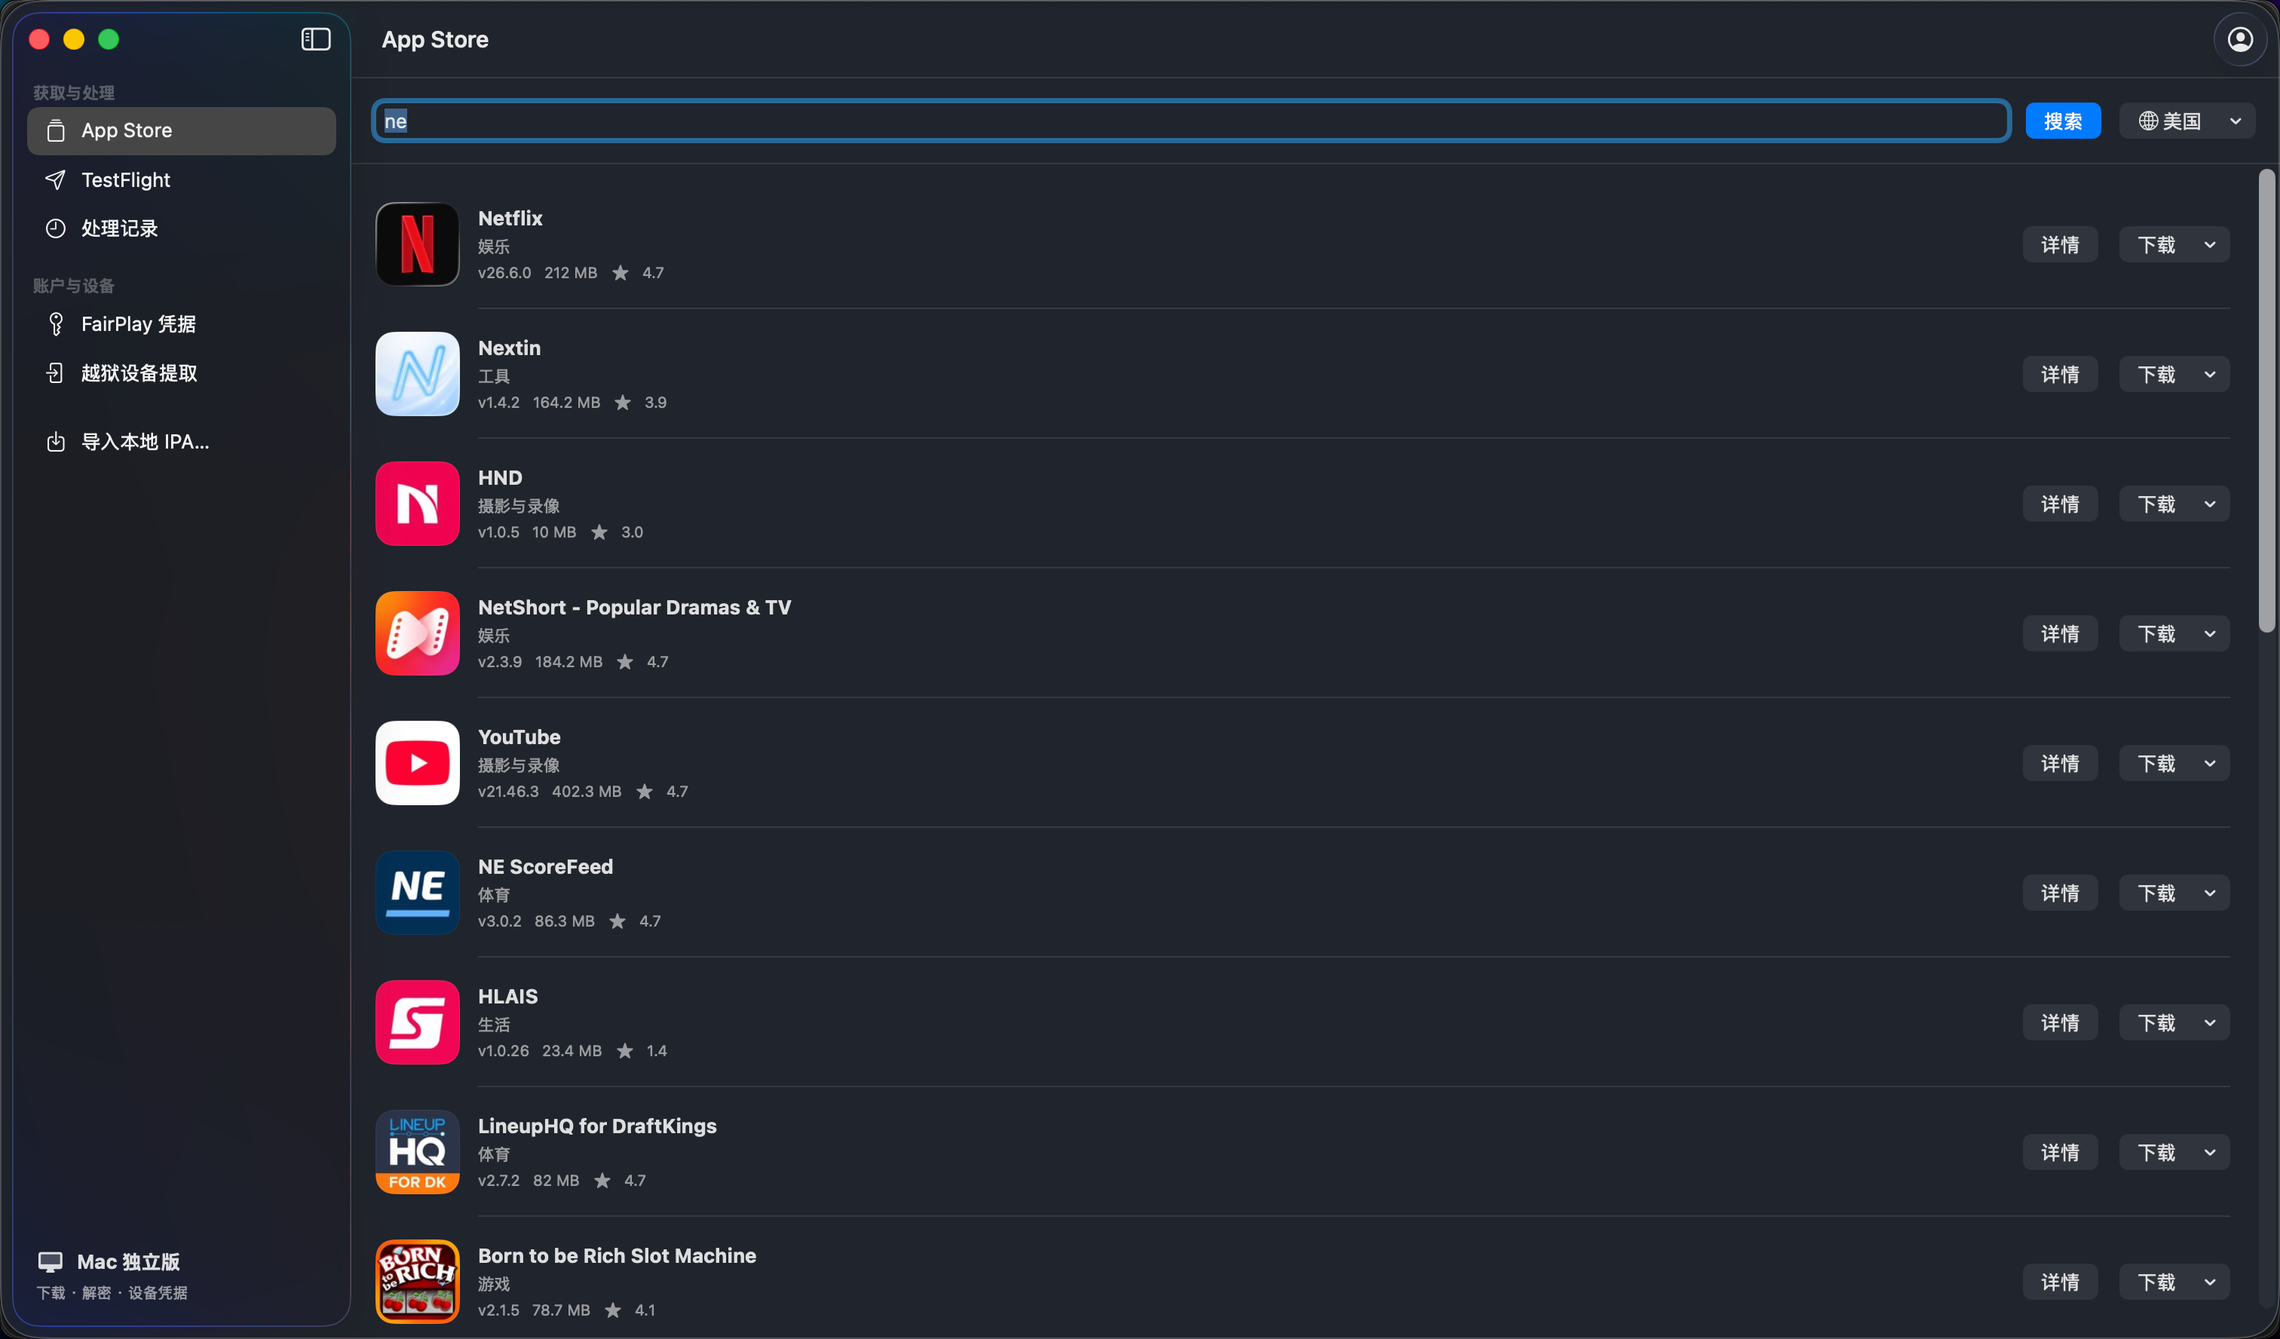
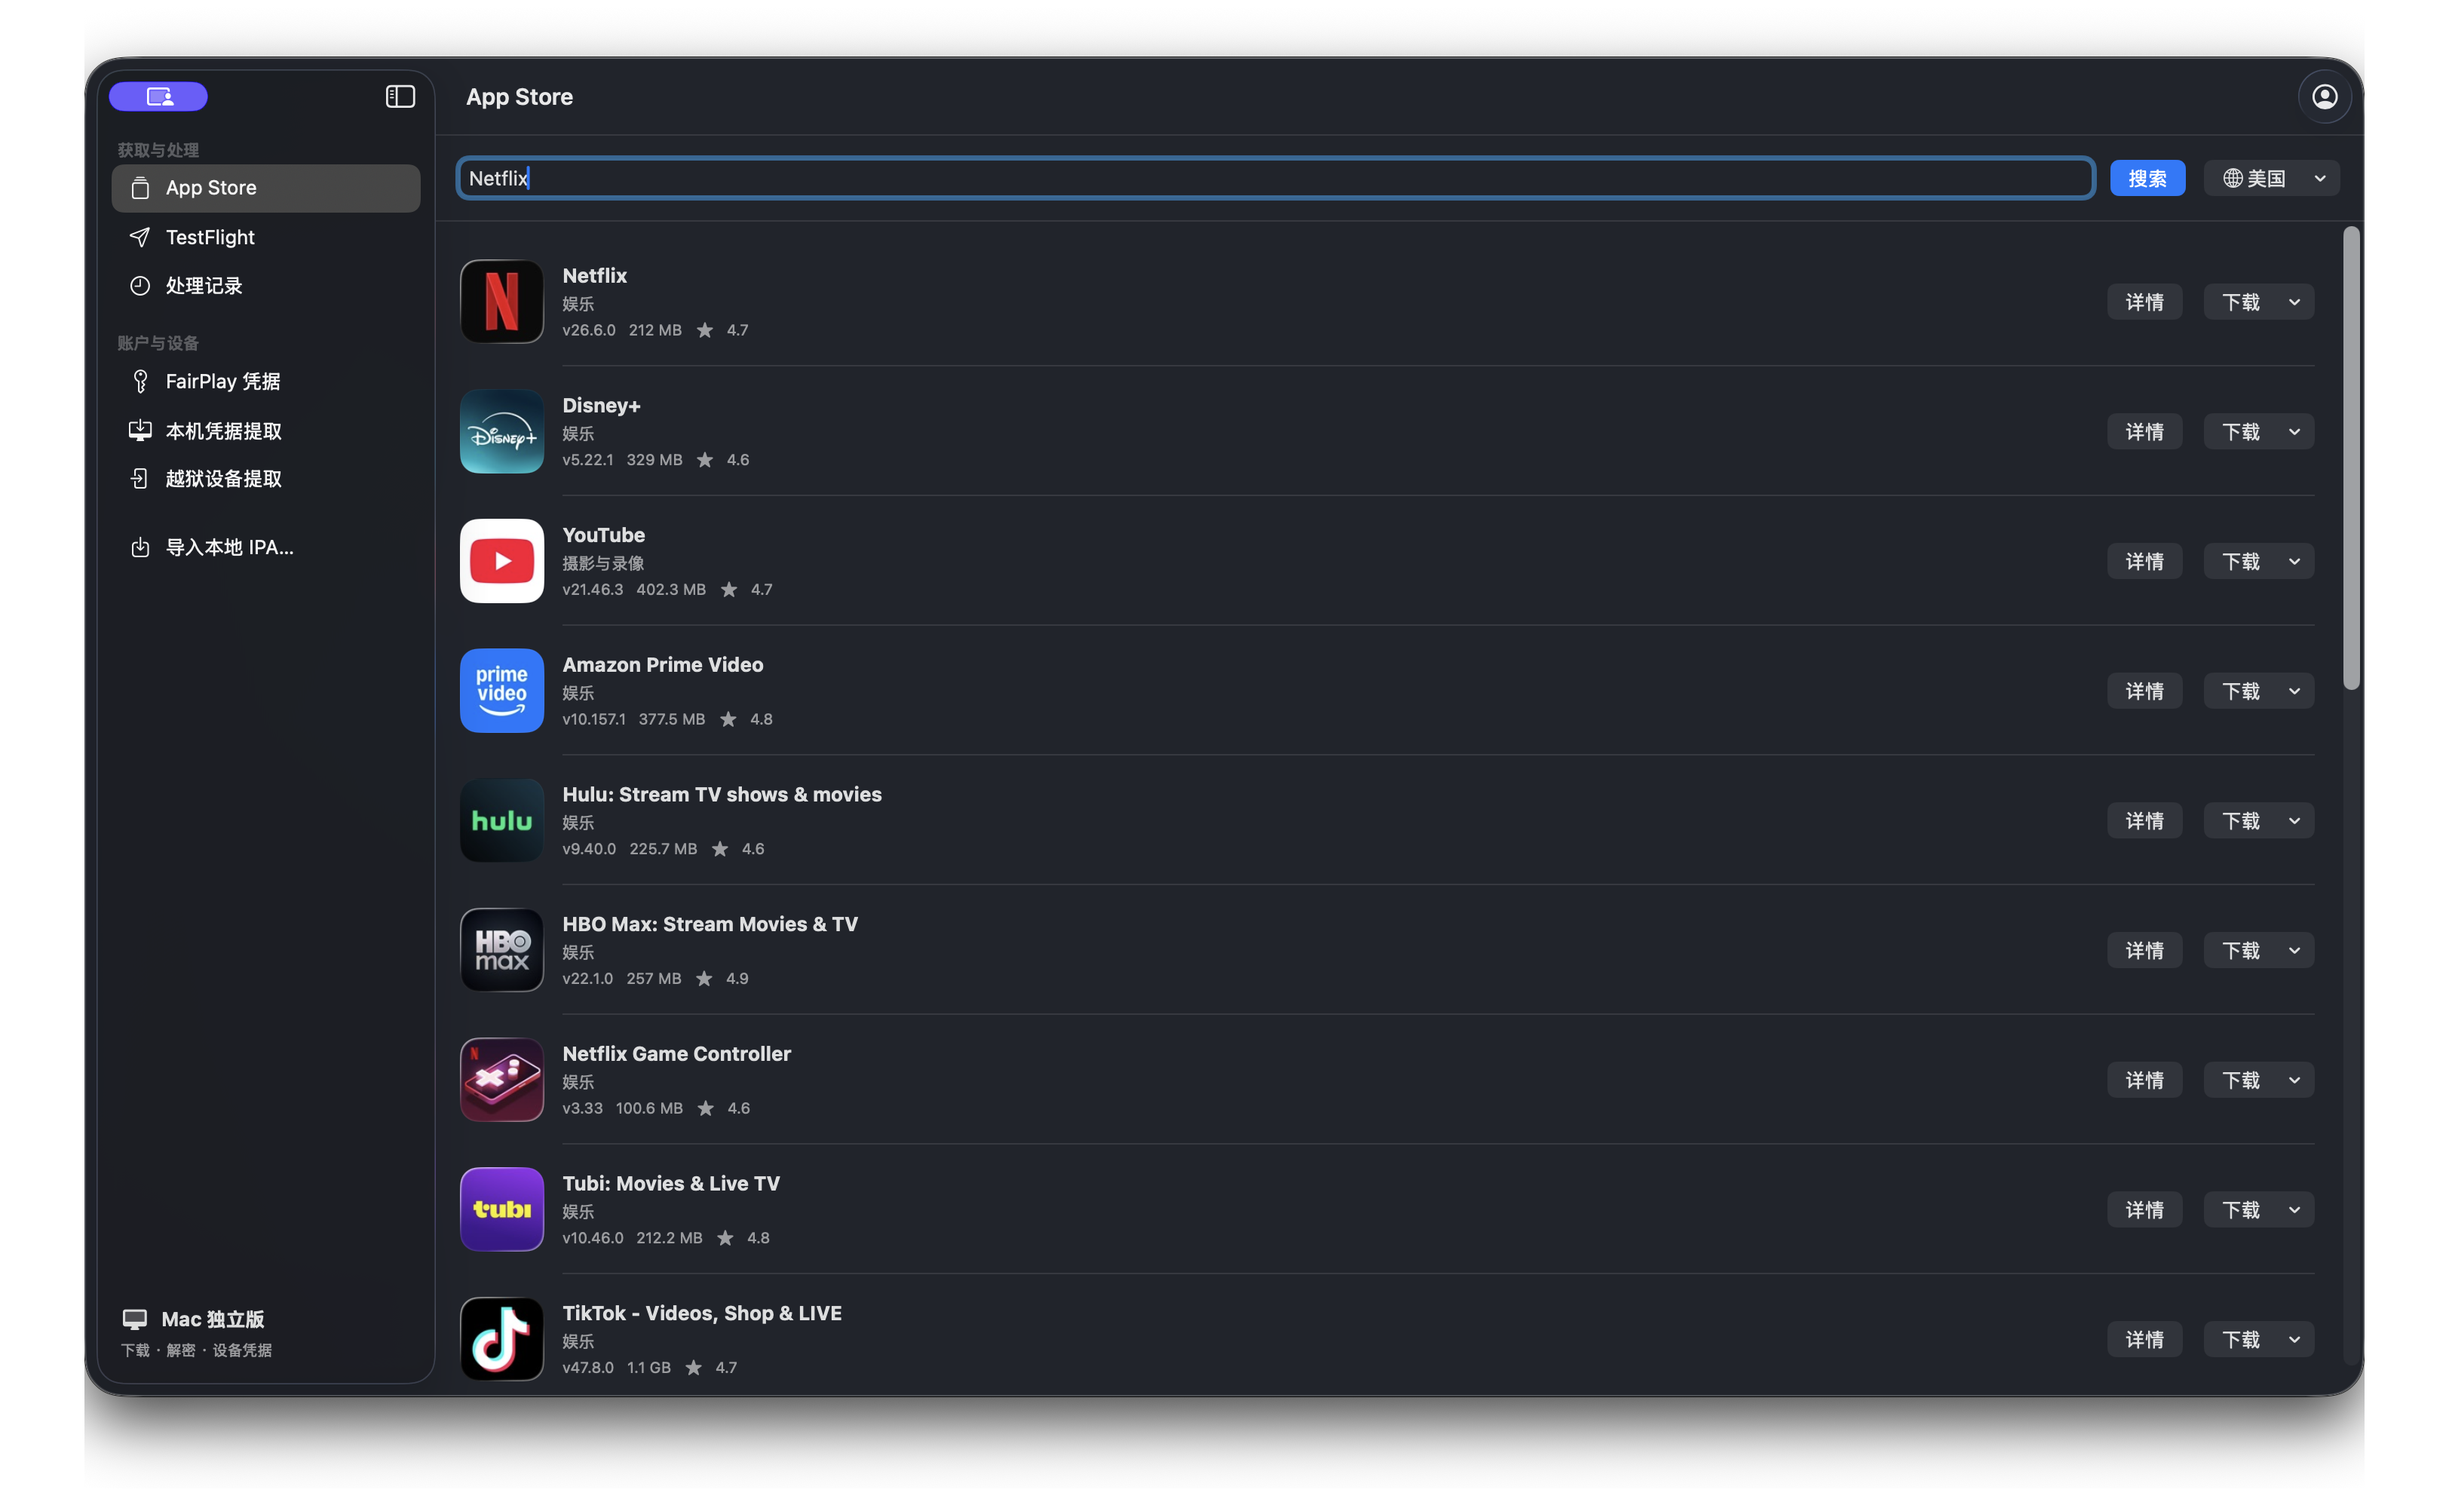
Refresh macOS README screenshot for version 1.0.3

diff --git a/README.md b/README.md
@@ -15,7 +15,7 @@
 
 ### macOS
 
-应用搜索、地区切换与下载操作。
+macOS 1.0.3：应用搜索、地区切换与下载操作，侧栏提供本机凭据提取及越狱设备提取入口。
 
 ![macOS 应用搜索](docs/images/macos-search.png)
 
